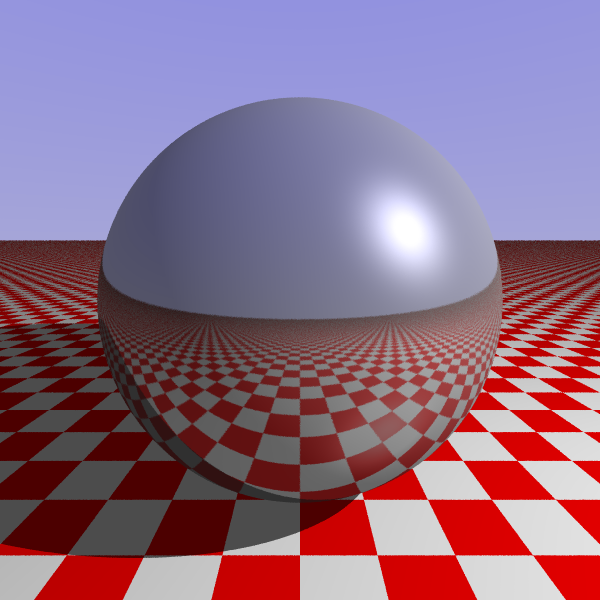
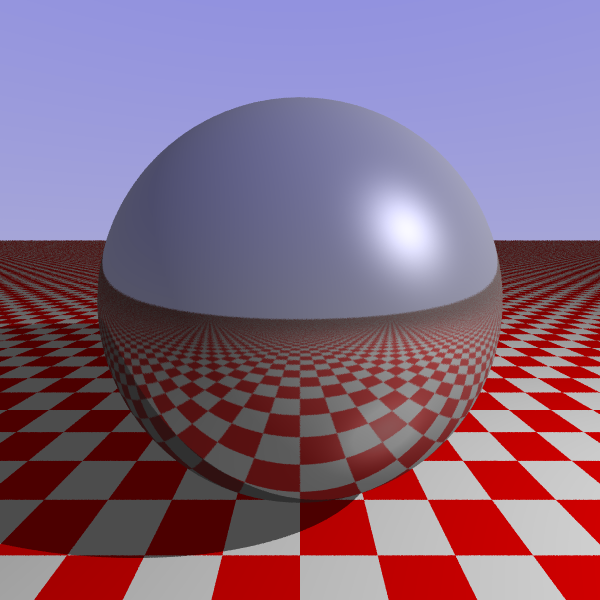
More realistic light

diff --git a/src/raytracer/Scene.java b/src/raytracer/Scene.java
@@ -87,7 +87,7 @@ public class Scene {
       Vector3D lightVector = lightPosition.subtract(collision.position);
       double distanceToLight = lightVector.length();
       double distanceToLightSquared = lightVector.lengthSquared();
-      double lightIntensity = Math.min(1, light.getIntensity() / distanceToLightSquared);
+      double lightIntensity = light.getIntensity() / (light.getIntensity() + distanceToLightSquared);
       Color lightColor = light.getColor();
       Vector3D lightDirection = lightVector.normalize();
       Ray shadowRay = new Ray(collision.position, lightVector);
